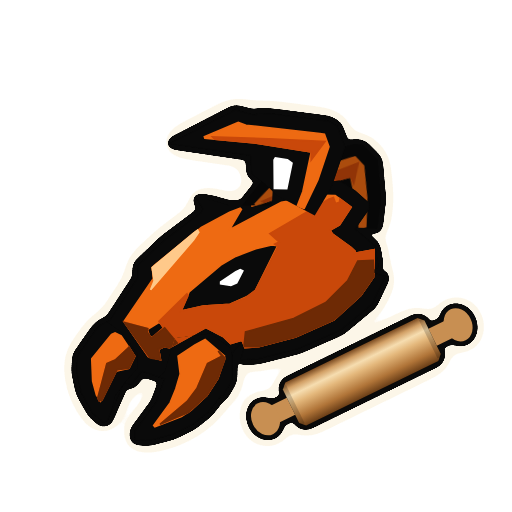
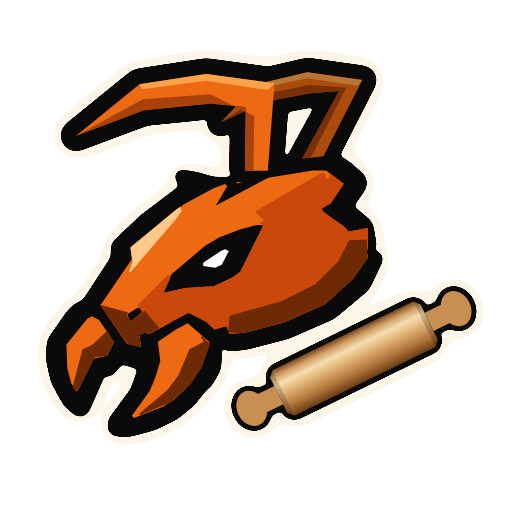
Demo Ants: verzie 9 a 10 nanovo – tykadlá nakreslené podľa Lonziho nákresu

diff --git a/demo/ants/index.html b/demo/ants/index.html
@@ -44,8 +44,8 @@ const OPTS = [
   ["Verzia 6 · Rovné čiary + valček", "Verzia 2 s novým mravcom, valček 1,2× väčší, bližšie k hlave a viac vpravo."],
   ["Verzia 7 · Oblá obracačka", "Rovnaký mravec ako 5; rúčka obracačky je oblá (farebný prechod ako valec), s kovovým krúžkom a zaobleným koncom."],
   ["Verzia 8 · Valček ako valec", "Rovnaký mravec ako 6; užší valček s farebným prechodom (vyzerá ako valec), tmavšie lemy a jednofarebné rúčky s krčkom a guľatou hlavicou."],
-  ["Verzia 9 · Tykadlá na temene + obracačka", "Ako 7, ale tykadlá sú posunuté dozadu na temeno: predné ide od temena šikmo dozadu hore a článok sa lomí dopredu (nie roh v strede hlavy), zadné tmavšie trčí vzadu za ním."],
-  ["Verzia 10 · Tykadlá na temene + valček", "Ako 8 s tykadlami z verzie 9."],
+  ["Verzia 9 · Nové tykadlá + obracačka", "Ako 7, tykadlá nakreslené nanovo podľa Lonziho nákresu: predné ide z temena skoro zvislo hore a v kĺbe sa lomí dopredu takmer vodorovne, hrot nad kusadlami; zadné (tmavšie) je ďalej vzadu na temene, stopka ide šikmo dozadu."],
+  ["Verzia 10 · Nové tykadlá + valček", "Ako 8 s tykadlami z verzie 9."],
 ];
 const C = "--c:#EE6A12;--d:#6E2A05;--ink:#111111";
 let mode = "anim";

diff --git a/CLAUDE.md b/CLAUDE.md
@@ -147,7 +147,7 @@ Prepnutie iba na pozretie, bez ukladania: `?fotky=ano|nie`, `?rozlozenie=uzke|si
   - Na mobile bez modrého prebliku pri ťuknutí (`-webkit-tap-highlight-color: transparent` na `.hra` a `.layer`).
   - Zmazaný hráč z DB z hry zmizne aj z kolekcie (ID v localStorage, ku ktorému karta už nie je, sa ignoruje).
 - **Demo priečinok `demo/`** (od 20. 11. 2026): všetko demo/ukážkové patrí sem, aby sa dalo zmazať naraz (`git rm -r demo`).
-  Na webe iba cez priamu adresu (nikde neodkazované, `noindex`). Teraz: **https://ful.upcba.sk/demo/ants/** – návrhy loga Kuchynka Ants (10 verzií, PNG + WebP; 9–10 = 7–8 s tykadlami na temene, poloha `BACK_MV` v `zdroj.html`).
+  Na webe iba cez priamu adresu (nikde neodkazované, `noindex`). Teraz: **https://ful.upcba.sk/demo/ants/** – návrhy loga Kuchynka Ants (10 verzií, PNG + WebP; 9–10 = 7–8 s tykadlami nakreslenými nanovo podľa Lonziho nákresu, `NEW_ANT` v `zdroj.html`).
   Zdroje a nástroje loga (kresba `zdroj.html`, vektory z predlohy, `logo-render.js`, `trace-logo.py`) sú **iba lokálne na vetve `demo-ants`** (nepushovať).
   Farby tímu Ants: `#EE6A12` / tmavá `#6E2A05` / text `#111111`.
 - Potvrdzovacie okno (`ask()` v `admin.js`) je **iba pri mazaní, pri zálohách a pri ukončení zápasu na tabuli**. Potvrdenie pred každou bežnou úpravou Lonzi **nechce**
